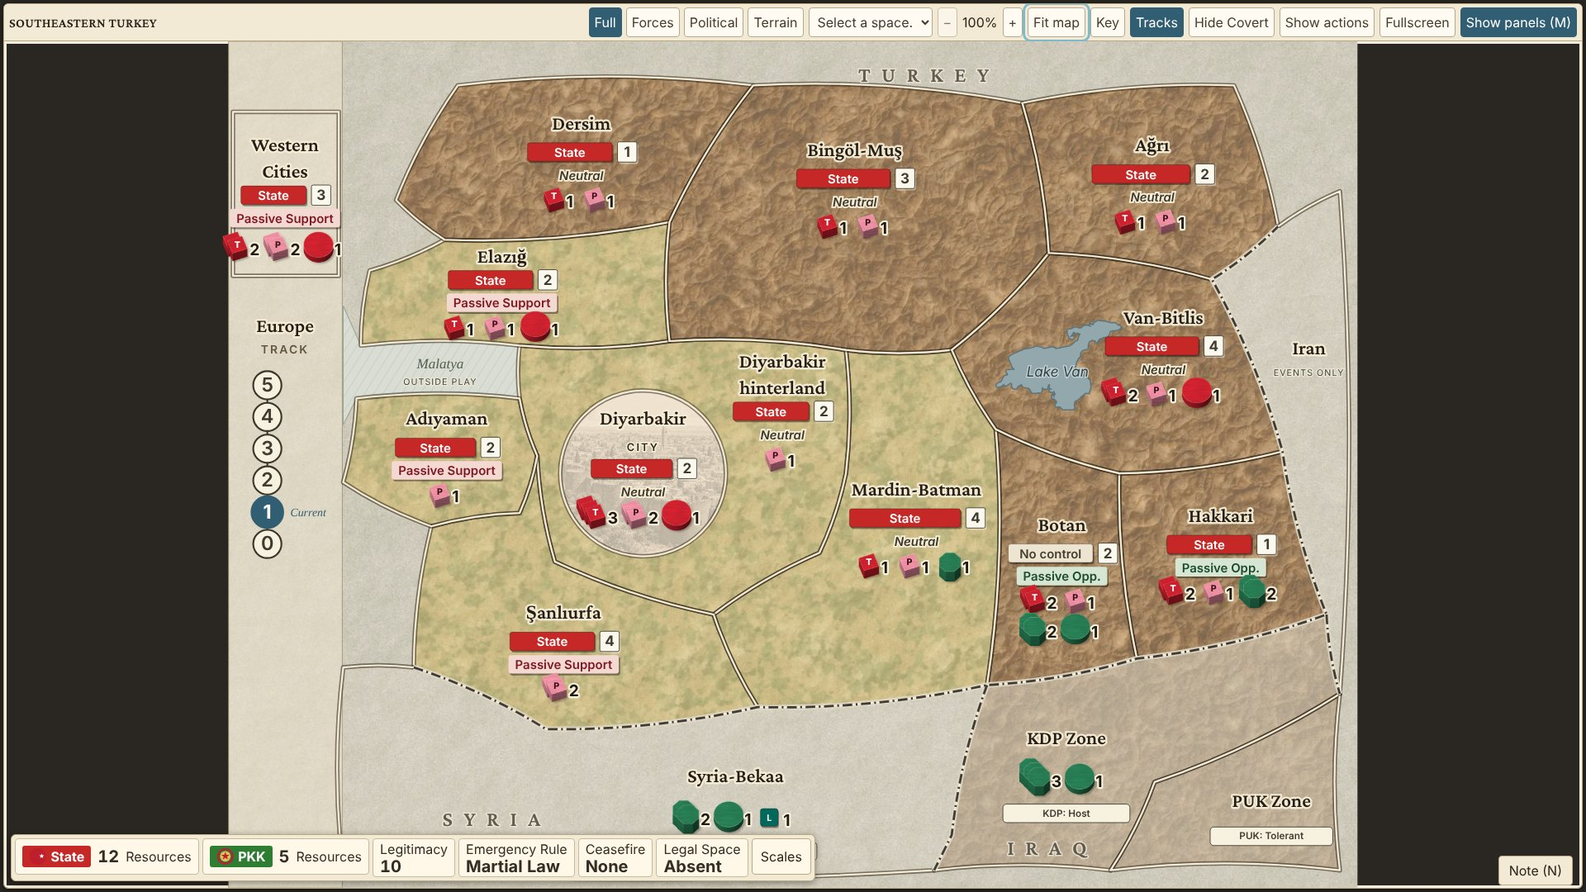
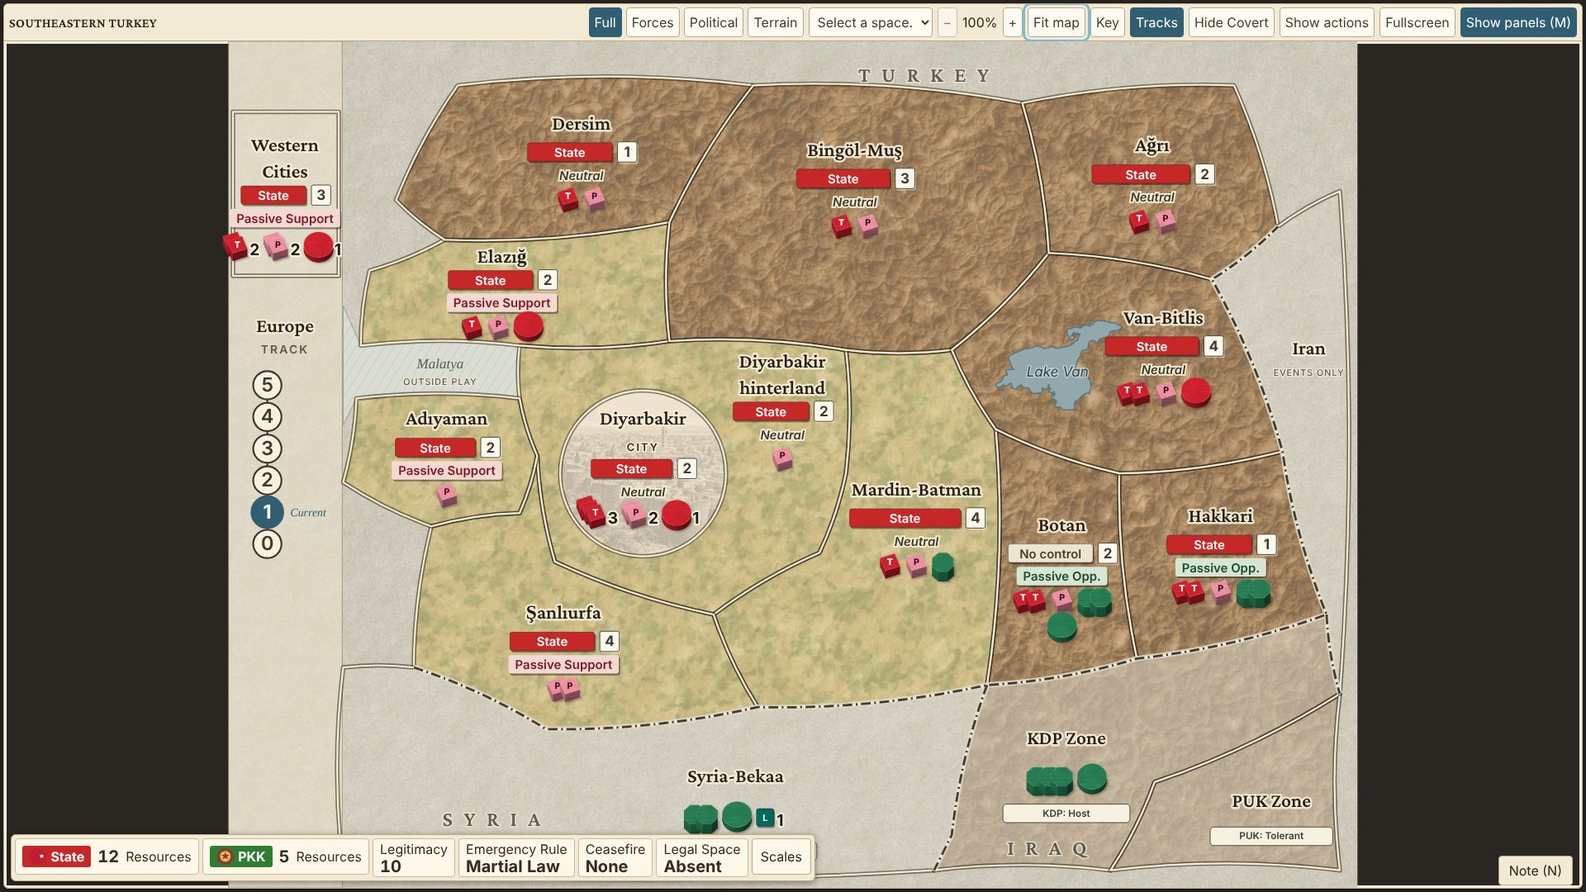
Draw pieces one by one, widen the board at 1366 and keep the selected border on top
An area draws up to 6 sprites for each piece group when all pieces fit
inside its border, and falls back to piles and counts when they do not.
From 1101 to 1500 px the side panel takes no layout column, so the board
has 60 percent of a 1366 x 768 window with panels open (44 before).
The selected border is drawn again above all area and country borders.
The design document records the measured frame times.

Claude-Session: https://claude.ai/code/session_015SRWaFc8vbpGxFW74fzxR7

diff --git a/sim/src/ui/board/Atlas.tsx b/sim/src/ui/board/Atlas.tsx
@@ -3,7 +3,7 @@ import type { BoardView, SpaceView } from "../api.ts";
 import { ATLAS, type AtlasSpace } from "./atlas-data.ts";
 import { chipOf, levelLabel } from "./markers.tsx";
 import { PieceIcon, SPRITE } from "./PieceIcon.tsx";
-import { presentation, statusLayout } from "./layout.ts";
+import { presentation, spreadPlan, statusLayout } from "./layout.ts";
 import { inside } from "./region.ts";
 
 /** Older packages retain their original schematic layout. */
@@ -55,6 +55,14 @@ function LevelCounter({text, level, x, y}: {readonly text:string; readonly level
   </g>;
 }
 
+/** One cardboard marker chip with its count. */
+function MarkerChip({marker:m, x, y, countX}: {readonly marker:SpaceView["markers"][number]; readonly x:number; readonly y:number; readonly countX:number}) {
+  const chip = chipOf(m.hidden ? "covert" : m.marker);
+  return <g aria-label={`${chip.name}${m.side === "default" ? "" : ` ${m.side}`} ${String(m.count)}`} transform={`translate(${String(x)} ${String(y)})`}>
+    <rect x={-9} y={-8} width={20} height={20} rx={3} className="chip-shadow" /><rect x={-10} y={-10} width={20} height={20} rx={3} fill={chip.fill} className="chip-face" /><text y={4} textAnchor="middle" className="chip-code">{chip.code}</text><text x={countX} y={6} className="map-count">{m.count}</text><title>{`${chip.name} ${m.side} ${String(m.count)}`}</title>
+  </g>;
+}
+
 /** Stack grid cell in map units: one sprite pile and its count. */
 const CELL_W = 46;
 const CELL_H = 33;
@@ -63,6 +71,21 @@ const CELL_H = 33;
 function Stack({space, view, layout}: {readonly space:SpaceView; readonly view:BoardView; readonly layout:AtlasSpace}) {
   const total = space.pieces.length+space.markers.length;
   if (total === 0) return null;
+  const spread = spreadPlan(space, layout);
+  if (spread !== null) return <g className="atlas-stack" data-stack="spread">
+    {space.pieces.map((piece,i) => {
+      const group = spread.groups[i];
+      return group === undefined ? null : <g key={`${piece.piece}-${piece.face}`} aria-label={`${piece.piece} ${piece.face} ${String(piece.count)}`}>
+        {group.at.map((at,n) => <PieceIcon key={n} piece={piece} color={view.factions.find(f=>f.id === piece.faction)?.color ?? "#444"} x={at.x} y={at.y} size={SPRITE} bare />)}
+        {group.count !== null && <text x={group.count.x} y={group.count.y} className="map-count">{group.count.text}</text>}
+      </g>;
+    })}
+    {space.markers.map((m,i) => {
+      const group = spread.groups[space.pieces.length+i];
+      const at = group?.at[0];
+      return group === undefined || at === undefined ? null : <MarkerChip key={`${m.marker}-${m.side}`} marker={m} x={at.x} y={at.y} countX={(group.count?.x ?? at.x+14)-at.x} />;
+    })}
+  </g>;
   const columns = total === 4 ? 2 : Math.min(3,total);
   const [x,y,w] = layout.stack;
   const positions = Array.from({length:Math.min(total,6)},(_,i) => ({x:x+(w-columns*CELL_W)/2+15+(i%columns)*CELL_W,y:y+8+Math.floor(i/columns)*CELL_H}));
@@ -76,10 +99,7 @@ function Stack({space, view, layout}: {readonly space:SpaceView; readonly view:B
     {pieces.map((piece,i) => <PieceIcon key={`${piece.piece}-${piece.face}`} piece={piece} color={view.factions.find(f=>f.id === piece.faction)?.color ?? "#444"} x={positions[i]?.x ?? x} y={positions[i]?.y ?? y} size={SPRITE} />)}
     {markers.map((m,i) => {
       const at = positions[pieces.length+i] ?? {x,y};
-      const chip = chipOf(m.hidden ? "covert" : m.marker);
-      return <g key={`${m.marker}-${m.side}`} aria-label={`${chip.name}${m.side === "default" ? "" : ` ${m.side}`} ${String(m.count)}`} transform={`translate(${String(at.x)} ${String(at.y)})`}>
-        <rect x={-9} y={-8} width={20} height={20} rx={3} className="chip-shadow" /><rect x={-10} y={-10} width={20} height={20} rx={3} fill={chip.fill} className="chip-face" /><text y={4} textAnchor="middle" className="chip-code">{chip.code}</text><text x={16} y={6} className="map-count">{m.count}</text><title>{`${chip.name} ${m.side} ${String(m.count)}`}</title>
-      </g>;
+      return <MarkerChip key={`${m.marker}-${m.side}`} marker={m} x={at.x} y={at.y} countX={16} />;
     })}
     {total > shown && <g className="atlas-overflow" aria-label={`${String(total-shown)} more force or marker groups; select to inspect`}><text x={positions[shown]?.x ?? x} y={(positions[shown]?.y ?? y)+6}>+{total-shown}</text><title>Select this space to inspect every piece type, face, marker and count.</title></g>}
   </g>;

diff --git a/sim/src/ui/board/layout.ts b/sim/src/ui/board/layout.ts
@@ -1,6 +1,7 @@
 // Presentation bounds only. No rules, links or stored coordinates are modified.
 import type { SpaceView } from "../api.ts";
-import { ATLAS } from "./atlas-data.ts";
+import { ATLAS, type AtlasSpace } from "./atlas-data.ts";
+import { inside } from "./region.ts";
 import { isEuropeTrack } from "../status/tracks.ts";
 
 export interface SpaceLayout {
@@ -26,4 +27,60 @@ export function statusLayout(space: SpaceView): readonly SpaceLayout[] {
   const p=presentation(space);
   const y = p.y + 20 + p.height - 10;
   return [{...p,x:p.x+4,y:y+1,width:p.width-34,height:21},{...p,y:y+27,height:22},{...p,x:p.x+p.width-24,y,width:22,height:23}];
+}
+
+/** At most this many sprites of one piece group are drawn one by one. A larger group also prints its total. */
+export const SPREAD_CAP = 6;
+const ROW = 31;
+const GAP = 6;
+
+export interface SpreadGroup {
+  /** Sprite centers, left to right. A marker has one. */
+  readonly at: readonly { readonly x: number; readonly y: number }[];
+  /** The printed number: the total of a piece group above the cap, or the count of a marker. */
+  readonly count: { readonly x: number; readonly y: number; readonly text: string } | null;
+}
+
+/**
+ * Positions for every piece of the space drawn one by one, in the order pieces then markers.
+ * Null when a group does not fit inside the area border: the caller then draws piles and counts.
+ */
+export function spreadPlan(space: SpaceView, area: Pick<AtlasSpace, "stack" | "rings">): { readonly rows: number; readonly groups: readonly SpreadGroup[] } | null {
+  const [x, y, w] = area.stack;
+  const units = [
+    ...space.pieces.map(p => {
+      const n = Math.min(p.count, SPREAD_CAP);
+      const half = p.shape === "disc" ? 16 : 12;
+      const step = p.shape === "disc" ? 20 : 14;
+      const number = p.count > SPREAD_CAP ? 4 + 11 * String(p.count).length : 0;
+      return { n, half, step, body: 2 * half + (n - 1) * step, number, text: p.count > SPREAD_CAP ? String(p.count) : null };
+    }),
+    ...space.markers.map(m => ({ n: 1, half: 10, step: 0, body: 20, number: 4 + 11 * String(m.count).length, text: String(m.count) })),
+  ].filter(u => u.n > 0);
+  const rows: (typeof units)[] = [];
+  let width = 0;
+  for (const u of units) {
+    const row = rows.at(-1);
+    if (row === undefined || width + GAP + u.body + u.number > w) { rows.push([u]); width = u.body + u.number; }
+    else { row.push(u); width += GAP + u.body + u.number; }
+  }
+  const within = (px: number, py: number): boolean => area.rings.length === 0 || area.rings.filter(r => inside([px, py], r)).length % 2 === 1;
+  // An inset box has no border ring. It holds one row.
+  if (area.rings.length === 0 && rows.length > 1) return null;
+  const groups: SpreadGroup[] = [];
+  for (const [r, row] of rows.entries()) {
+    const total = row.reduce((sum, u) => sum + u.body + u.number, 0) + GAP * (row.length - 1);
+    const cy = y + 8 + r * ROW;
+    let left = x + (w - total) / 2;
+    for (const u of row) {
+      const right = left + u.body + u.number;
+      if (total > w || ![[left, cy - 17], [right, cy - 17], [left, cy + 15], [right, cy + 15]].every(([px = 0, py = 0]) => within(px, py))) return null;
+      groups.push({
+        at: Array.from({ length: u.n }, (_, i) => ({ x: left + u.half + i * u.step, y: cy })),
+        count: u.text === null ? null : { x: left + u.body + 3, y: cy + 6, text: u.text },
+      });
+      left = right + GAP;
+    }
+  }
+  return { rows: rows.length, groups };
 }

diff --git a/sim/src/ui/board/Board.tsx b/sim/src/ui/board/Board.tsx
@@ -10,6 +10,7 @@ import { chipOf, LevelMarker, MarkerChips } from "./markers.tsx";
 import { PieceIcon } from "./PieceIcon.tsx";
 import { counted, words } from "../common/names.ts";
 import { isEuropeTrack, spaceOfTrack } from "../status/tracks.ts";
+import { spreadPlan } from "./layout.ts";
 import { isInset, MAP_H, MAP_W, MAP_X0, pathOf, regionCells, type Point } from "./region.ts";
 
 const INSET_W = 116;
@@ -168,7 +169,7 @@ function BoxTrack({ track, space, geographic }: {readonly geographic: boolean; r
   const layout = geographic ? atlasLayout(space) : undefined;
   const groups = space.pieces.length + space.markers.length;
   const columns = groups === 4 ? 2 : Math.min(3,Math.max(1,groups));
-  const at = layout === undefined ? {x:space.x,y:space.y+(isInset(space) ? 20 : 48)} : {x:layout.info[0]+layout.info[2]/2,y:layout.info[1]+52+(groups > 0 ? Math.ceil(Math.min(groups,6)/columns)*33+17 : 5)};
+  const at = layout === undefined ? {x:space.x,y:space.y+(isInset(space) ? 20 : 48)} : {x:layout.info[0]+layout.info[2]/2,y:layout.info[1]+52+(groups > 0 ? (spreadPlan(space, layout)?.rows ?? Math.ceil(Math.min(groups,6)/columns))*33+17 : 5)};
   const width = layout === undefined ? 116 : layout.info[2]-6;
   const label = numeric ? `${track.display}: ${String(track.value)}` : `${track.display.replace(" posture", "")}: ${words(String(track.value))}`;
   return <g role="group" aria-label={`${track.display} track`} data-track-space={space.id} className="box-track" pointerEvents="none">
@@ -307,6 +308,14 @@ export function Board({ view, selected, onSelect, changed = [], onDrag, arrows =
         />
       ))}
       {cells.geographic && <AtlasGeography />}
+      {/* The selected border is drawn again above all area and country borders, so no neighbor covers it. */}
+      {cells.geographic && spaces.filter(sp => selected.includes(sp.id)).map(sp => {
+        const area = atlasLayout(sp);
+        const d = area === undefined ? null : sp.id === "diyarbakir-rural" ? `${area.path.split("Z")[0] ?? ""}Z` : area.path;
+        return d === null ? null : <g key={sp.id} className="atlas-selected" data-of={sp.id} pointerEvents="none" fill="none" strokeLinejoin="round">
+          <path d={d} className="casing" vectorEffect="non-scaling-stroke" /><path d={d} className="ring" vectorEffect="non-scaling-stroke" />
+        </g>;
+      })}
       {spaces.map((s) => {
         const layout = cells.geographic ? atlasLayout(s) : undefined;
         return layout === undefined ? <Tokens key={s.id} space={s} view={view} x={s.x} y={s.y + 6} /> : <AtlasInfo key={s.id} space={s} view={view} layout={layout} />;

diff --git a/sim/src/ui/board/layout.test.ts b/sim/src/ui/board/layout.test.ts
@@ -2,7 +2,7 @@ import { describe, expect, it } from "vitest";
 import { boardView } from "../../server/view.ts";
 import { kurdish } from "../../../test/kurdish-package.ts";
 import { turnOf } from "../../../test/board.ts";
-import { presentation, statusLayout } from "./layout.ts";
+import { presentation, SPREAD_CAP, spreadPlan, statusLayout } from "./layout.ts";
 import { inside } from "./region.ts";
 import { ATLAS } from "./atlas-data.ts";
 const view = boardView(kurdish.ruleset, kurdish.data, turnOf("pkk"));
@@ -45,3 +45,39 @@ it.each(view.spaces.filter(s => s.kind === "domestic" && !s.tags.includes("noLan
     }
   }
 },30000);
+
+describe("individual pieces (spread plan)", () => {
+  const botan = view.spaces.find(s => s.id === "botan");
+  const area = ATLAS.spaces.botan;
+  if (botan === undefined || area === undefined) throw new Error("botan");
+  const withCounts = (count: number, groups = botan.pieces.length) => ({ ...botan, markers: [], pieces: botan.pieces.slice(0, groups).map(p => ({ ...p, count })) });
+
+  it("places one sprite per piece and no count while every group is at the cap or below", () => {
+    const plan = spreadPlan(botan, area);
+    if (plan === null) throw new Error("the start setup must fit");
+    expect(plan.groups.map(g => g.at.length)).toEqual(botan.pieces.map(p => p.count));
+    expect(plan.groups.every(g => g.count === null)).toBe(true);
+    expect(spreadPlan(botan, area)).toEqual(plan);
+  });
+
+  it("draws 6 sprites and prints the exact total for a group above the cap", () => {
+    const plan = spreadPlan(withCounts(9, 1), area);
+    if (plan === null) throw new Error("one group of 9 must fit");
+    expect(plan.groups[0]?.at).toHaveLength(SPREAD_CAP);
+    expect(plan.groups[0]?.count?.text).toBe("9");
+  });
+
+  it("keeps every sprite inside the area border", () => {
+    for (const s of view.spaces) {
+      const layout = ATLAS.spaces[s.id];
+      const plan = layout === undefined ? null : spreadPlan(s, layout);
+      if (plan === null || layout === undefined) continue;
+      for (const g of plan.groups) for (const p of g.at) for (const point of [[p.x - 12, p.y - 15], [p.x + 12, p.y + 13]] as const)
+        expect(layout.rings.filter(r => inside(point, r)).length % 2, s.id).toBe(1);
+    }
+  });
+
+  it("returns null when the individual pieces do not fit, so the area falls back to piles", () => {
+    expect(spreadPlan(withCounts(12), area)).toBeNull();
+  });
+});

diff --git a/sim/src/ui/styles.css b/sim/src/ui/styles.css
@@ -589,3 +589,28 @@ body:has(.play-screen) .tip {font-size:16px;}
   .track-card.expanded [data-track="emergencyRule"] {flex-basis:150px;}
   .track-scales > summary {padding:2px 6px;}
 }
+.atlas-selected .casing {stroke:#2e2114; stroke-opacity:.8; stroke-width:8;}
+.atlas-selected .ring {stroke:#f0c54a; stroke-width:4;}
+
+/* Narrow desktop (1101 to 1500 px): the side panel takes no layout column. It lies over the right
+   part of the map window, below the track card and the toolbar. Those rows and the forces bar get the
+   full width and stay on one row. The board keeps clear of the open panel, so no area is under it. */
+@media (min-width:1101px) and (max-width:1500px) {
+  .play-screen:not(.actions-hidden) {--sidebar-width:320px;}
+  .play-screen {--overlay-top:104px;}
+  .play-screen:not(:has(.track-card)) {--overlay-top:50px;}
+  .play-screen .play {grid-template-columns:minmax(0,1fr); position:relative;}
+  .play-screen:not(.map-only) .side {position:absolute; z-index:4; right:0; top:var(--overlay-top); bottom:50px; width:var(--sidebar-width); height:auto; box-sizing:border-box;}
+  .play-screen:not(.map-only) .map-window {margin-right:var(--sidebar-width);}
+  .play-screen .map-navigation .board-title {display:none;}
+  /* The caption shows only while it reports candidate targets. Its fixed hints are in each area tooltip. */
+  .play-screen .map-caption:not(:has(strong)) {display:none;}
+  .play-main {gap:4px;}
+  /* The Note button is at the lower right corner. The forces bar keeps clear of it. */
+  .play-screen .forces-bar {margin-right:108px; gap:4px 8px; padding:4px 6px;}
+  .play-screen .forces-group {gap:7px; flex-wrap:nowrap; white-space:nowrap;}
+  .play-screen .forces-bar > button {padding:4px 6px;}
+  .play-screen .action-panels .elig-box button {padding:4px 0; letter-spacing:-.2px;}
+  .play-screen .elig-row {gap:2px;}
+  .play-screen .elig-box {padding:2px 1px;}
+}

diff --git a/sim/src/ui/board/PieceIcon.tsx b/sim/src/ui/board/PieceIcon.tsx
@@ -23,8 +23,8 @@ export function spriteOf(piece: PieceView): string | null {
   return name === "guerrilla-underground" && piece.emblem === "starCircle" ? "guerrilla-active" : name;
 }
 
-/** `bare`: the shape only, with no count (legend). `size`: sprite canvas edge; the atlas passes SPRITE. */
-export function PieceIcon({ piece, color, x, y, bare = false, size: canvas = COMPACT }: { readonly piece: PieceView; readonly color: string; readonly x: number; readonly y: number; readonly bare?: boolean; readonly size?: number }) {
+/** `bare`: one shape with no count and no label (legend, single atlas pieces). `size`: sprite canvas edge; the atlas passes SPRITE. */
+export function PieceIcon({ piece, color, x, y, bare = false, size: asked }: { readonly piece: PieceView; readonly color: string; readonly x: number; readonly y: number; readonly bare?: boolean; readonly size?: number }) {
   const code: Readonly<Record<string,string>> = {troops:"T",police:"P",guards:"G"};
   const letter=code[piece.piece];
   const factionColor = piece.faction === "state" ? "#bd1f2c" : piece.faction === "pkk" ? "#26734e" : color;
@@ -33,7 +33,9 @@ export function PieceIcon({ piece, color, x, y, bare = false, size: canvas = COM
   const h = SIZE / 2;
   const sprite = spriteOf(piece);
   if (sprite !== null) {
-    const size = bare ? 20 : canvas;
+    const canvas = asked ?? COMPACT;
+    // The legend asks for no size and gets a small sprite. The atlas draws single pieces at its own size.
+    const size = bare && asked === undefined ? 20 : canvas;
     // Only the atlas grid has room for a pile. The schematic fallback shows one sprite and the count.
     const pile = bare || canvas < SPRITE ? 1 : Math.max(1, Math.min(PILE, piece.count));
     const k = size / SPRITE;

diff --git a/sim/src/ui/board/board.test.tsx b/sim/src/ui/board/board.test.tsx
@@ -33,6 +33,23 @@ describe("Board", () => {
     expect(screen.getByRole("button", { name: "Botan" }).getAttribute("aria-pressed")).toBe("true");
   });
 
+  it("draws the selected border above every area border, so no neighbor covers it", () => {
+    const { container } = render(<Board view={view} selected={["botan"]} onSelect={vi.fn()} />);
+    const ring = container.querySelector(".atlas-selected[data-of='botan']");
+    const lastArea = [...container.querySelectorAll(".map-space")].at(-1);
+    if (ring === null || lastArea === undefined) throw new Error("selected ring");
+    expect(lastArea.compareDocumentPosition(ring) & Node.DOCUMENT_POSITION_FOLLOWING).toBeTruthy();
+    expect(ring.getAttribute("pointer-events")).toBe("none");
+    expect(container.querySelectorAll(".atlas-selected[data-of='hakkari']")).toHaveLength(0);
+  });
+
+  it("draws each piece of a small group one by one and keeps the group label", () => {
+    render(<Board view={view} selected={[]} onSelect={vi.fn()} />);
+    const group = screen.getByLabelText("guerrilla underground 3");
+    expect(group.querySelectorAll("image")).toHaveLength(3);
+    expect(group.querySelector(".map-count")).toBeNull();
+  });
+
   it("shows the detail card and the status bar", () => {
     const botan = view.spaces.find((s) => s.id === "botan");
     if (botan === undefined) throw new Error("botan");

diff --git a/docs/coin-visual-redesign-design.md b/docs/coin-visual-redesign-design.md
@@ -47,21 +47,27 @@ Seven transparent PNG sprites sit in `map/pieces/`. Each is 192 x 192 px and 15 
 - One projection serves all sprites. It is orthographic, with the camera about 60 degrees above the horizon. Light comes from the upper left. The paint is matte with faint grain. A soft contact shadow is baked in. The top face center is at pixel (96, 84).
 - `spriteOf` in `PieceIcon.tsx` maps faction, shape and color variant to a sprite. The `starCircle` emblem selects the active Guerrilla face.
 - Shapes come from `pieces.yaml`: cube (Troops, Police), cylinder (Guards), disc (both Bases) and octagon (Guerrilla).
-- On the atlas, a sprite is 54 map units. One group shows at most 3 piled sprites and always prints the exact count. The T, P and G codes stay on State forces.
+- On the atlas, a sprite is 54 map units. The T, P and G codes stay on State forces.
+- An area draws its pieces one by one when all of them fit inside its border. One group shows at most 6 sprites. A group of 7 or more also prints its exact total. `spreadPlan` in `layout.ts` gives the positions.
+- An area where the pieces do not fit shows piles: at most 3 piled sprites for one group, with the exact count. Thus one area can show single pieces while its neighbor shows piles.
+- The accessible label of each group and the space inspector always give the exact count.
 - Placement uses the existing deterministic grid in `Stack` in `Atlas.tsx`, with 46 x 33 unit cells. A group that would cross the area border becomes a "+N" overflow. The space inspector lists everything.
 
 ## Counters and feedback
 
 - Control, population, Support or Opposition and marker chips are cardboard counters: a face and an offset dark shadow. No SVG filters are used.
 - Active Support or Opposition uses a solid faction color with white text. Passive uses a pale tint. Neutral uses italic text with no counter.
+- The selected border is drawn again above all area and country borders, so no neighbor border covers it.
 - Selected area: gold #f0c54a border with a 20% gold tint. Rules neighbors: dashed pale teal border.
 - Keyboard focus: white casing with a dark #12323d line. It is defined after the eligibility rules, so candidate spaces keep it.
 
 ## Layout and navigation
 
 - The Play screen fills the viewport at 1101 px and wider, with no page scroll.
-- Toolbar: one row (45 px) at 1920, two rows at 1366. The resources and politics card shows one summary row by default. The full scales open from the "Scales" disclosure.
-- Side panel: 420 px at 1920, 340 px at 1366. "Hide actions" and "Map only (M)" collapse it. Action drafts stay mounted.
+- Toolbar: one row (45 px) at 1920 and at 1366. The resources and politics card shows one summary row by default. The full scales open from the "Scales" disclosure.
+- Side panel: 420 px at 1920. "Hide actions" and "Map only (M)" collapse it. Action drafts stay mounted.
+- From 1101 to 1500 px the side panel (320 px) takes no layout column. It lies over the right part of the map window, below the track card and the toolbar. Those rows and the forces bar have the full width. The board keeps clear of the open panel, so no area is under it.
+- From 1101 to 1500 px the caption below the map shows only while it reports candidate targets. Its fixed hints are in each area tooltip.
 - In Map only, the summary row floats over the lower board margin. The space inspector is a floating card at the lower left of the map. Its × button closes it.
 - Wheel zoom centers on the pointer, from 100% to 400%. Drag on the board background, middle-button drag and Alt-drag pan. A drag that starts on a space still plans a move. "Fit map" resets the camera.
 
@@ -69,6 +75,7 @@ Measured board share of the viewport:
 
 - 0.64 at 1920 x 1080 with panels open.
 - 0.94 at 1920 x 1080 in Map only.
+- 0.60 at 1366 x 768 with panels open (0.44 before the overlay side panel).
 - 0.87 at 1366 x 768 in Map only.
 
 ## Asset generation
@@ -81,8 +88,8 @@ Measured board share of the viewport:
 ## Verification
 
 - `make check` is clean.
-- `make test` passes: 1513 tests in 109 files. UI tests: 252 pass.
-- `make e2e` (smoke, 36 checks) and `make ux` (74 checks) pass on Linux with Chromium. They cover both target sizes, page scroll, board area thresholds, wheel zoom, selection, drag planning, commit, undo, notes and export.
+- `make test` passes: 1520 tests in 109 files. UI tests: 259 pass.
+- `make e2e` (smoke, 36 checks) and `make ux` (76 checks) pass on Linux with Chromium. They cover both target sizes, page scroll, board area thresholds, wheel zoom, selection, drag planning, commit, undo, notes and export.
 - No console errors.
 - Screenshots in `docs/coin-visual-redesign/`:
 
@@ -100,8 +107,16 @@ At 1366 x 768:
 
 ## Known limitations
 
-1. At 1366 x 768 with the side panel open, the board has about 44% of the viewport. Use "Hide actions" or "Map only (M)" for more board.
+1. At 1366 x 768 with the side panel open, the board has 60.2% of the viewport. The margin above the 60% target is small. "Hide actions" or "Map only (M)" gives more board.
 2. The terrain is an illustrative texture, not surveyed elevation. It carries no game rule.
 3. The legacy printed draft `draft-map.svg` and the rulebook are not restyled.
 4. Browser checks ran on Linux Chromium only. Windows runs `make check` and `make test` in CI.
-5. Rendering speed was not profiled. Six pointer-centered wheel zoom steps completed in about 0.5 s in headless Chromium at 1920 x 1080, with 40 ms waits between steps.
+5. Rendering speed was measured in headless Chromium only (software rendering, no GPU). See "Rendering speed".
+
+## Rendering speed
+
+- Target: a median frame time of 33 ms or less during drag pan and wheel zoom.
+- Load: a synthetic dense view. Every area holds four groups of six pieces and three markers (149 sprite images on the board).
+- Machine: 4-core Intel Xeon at 2.1 GHz, headless Chromium 153, no GPU.
+- Result at 1920 x 1080 and at 1366 x 768: animation frames have a 16.7 ms median during zoom and pan. Frames drawn by the compositor during pan have a 16.7 ms median and a 95th percentile of about 21 ms.
+- The target is met. No speed fix was necessary.
